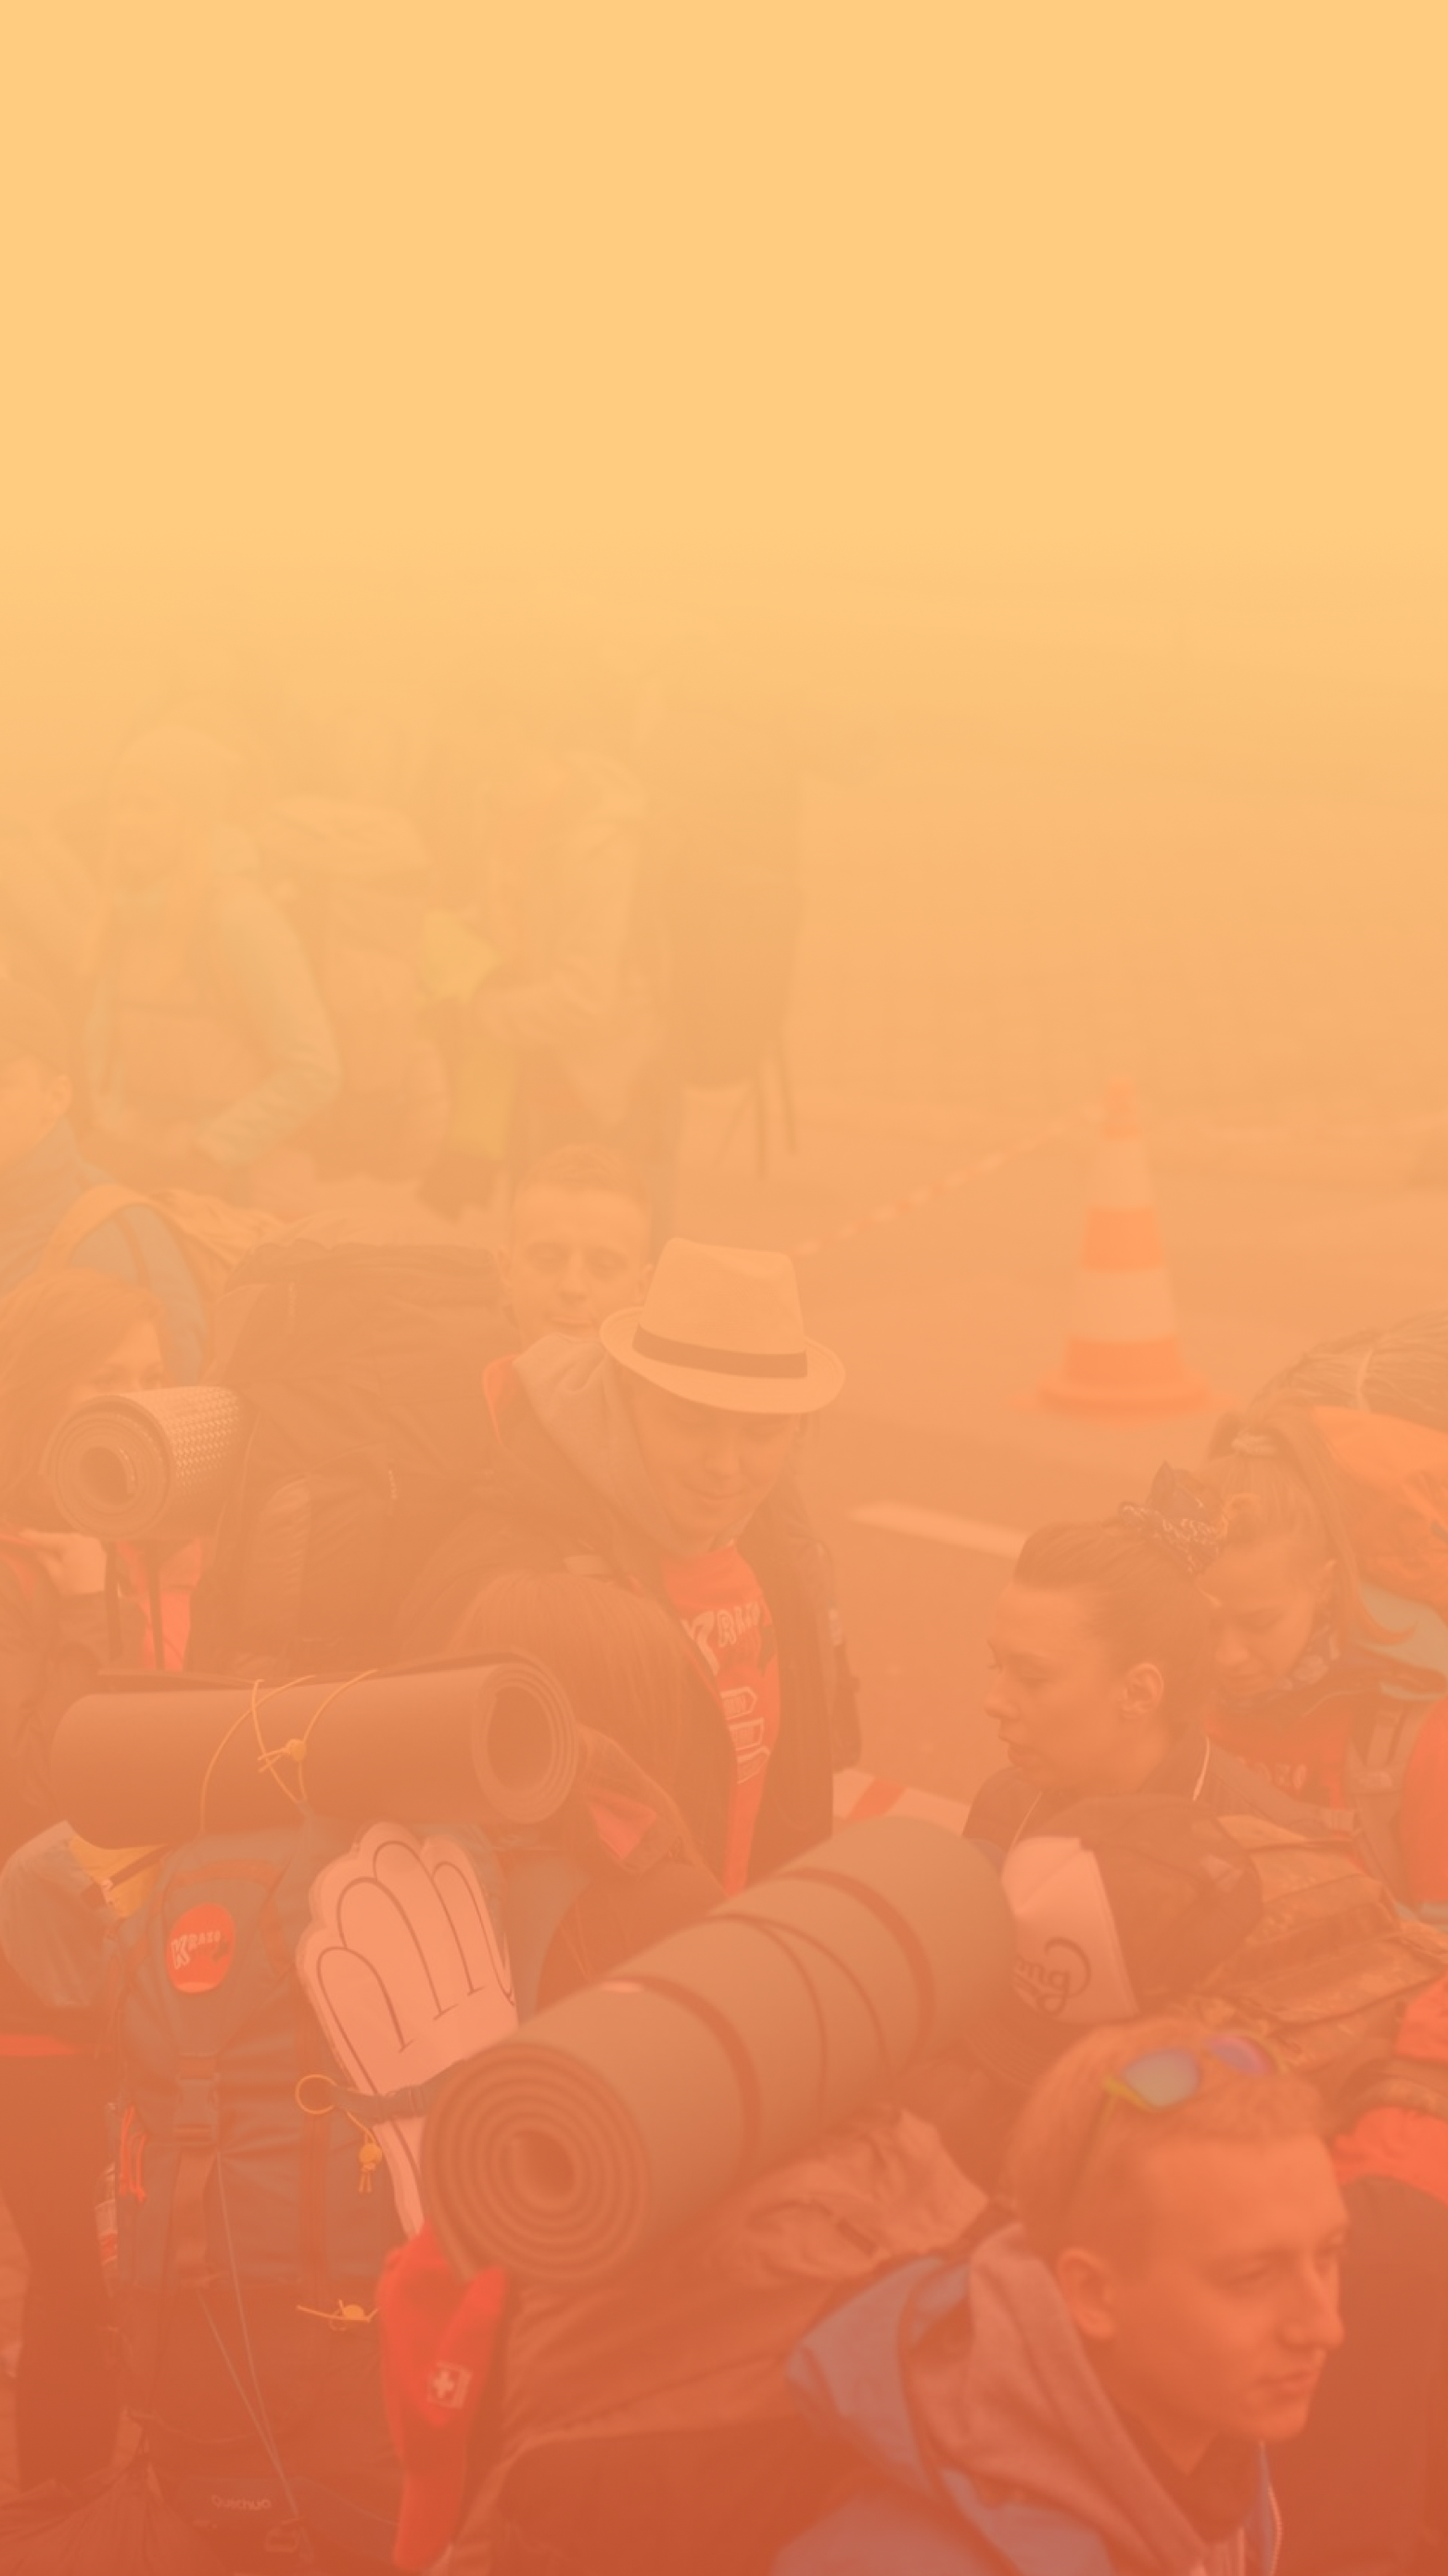
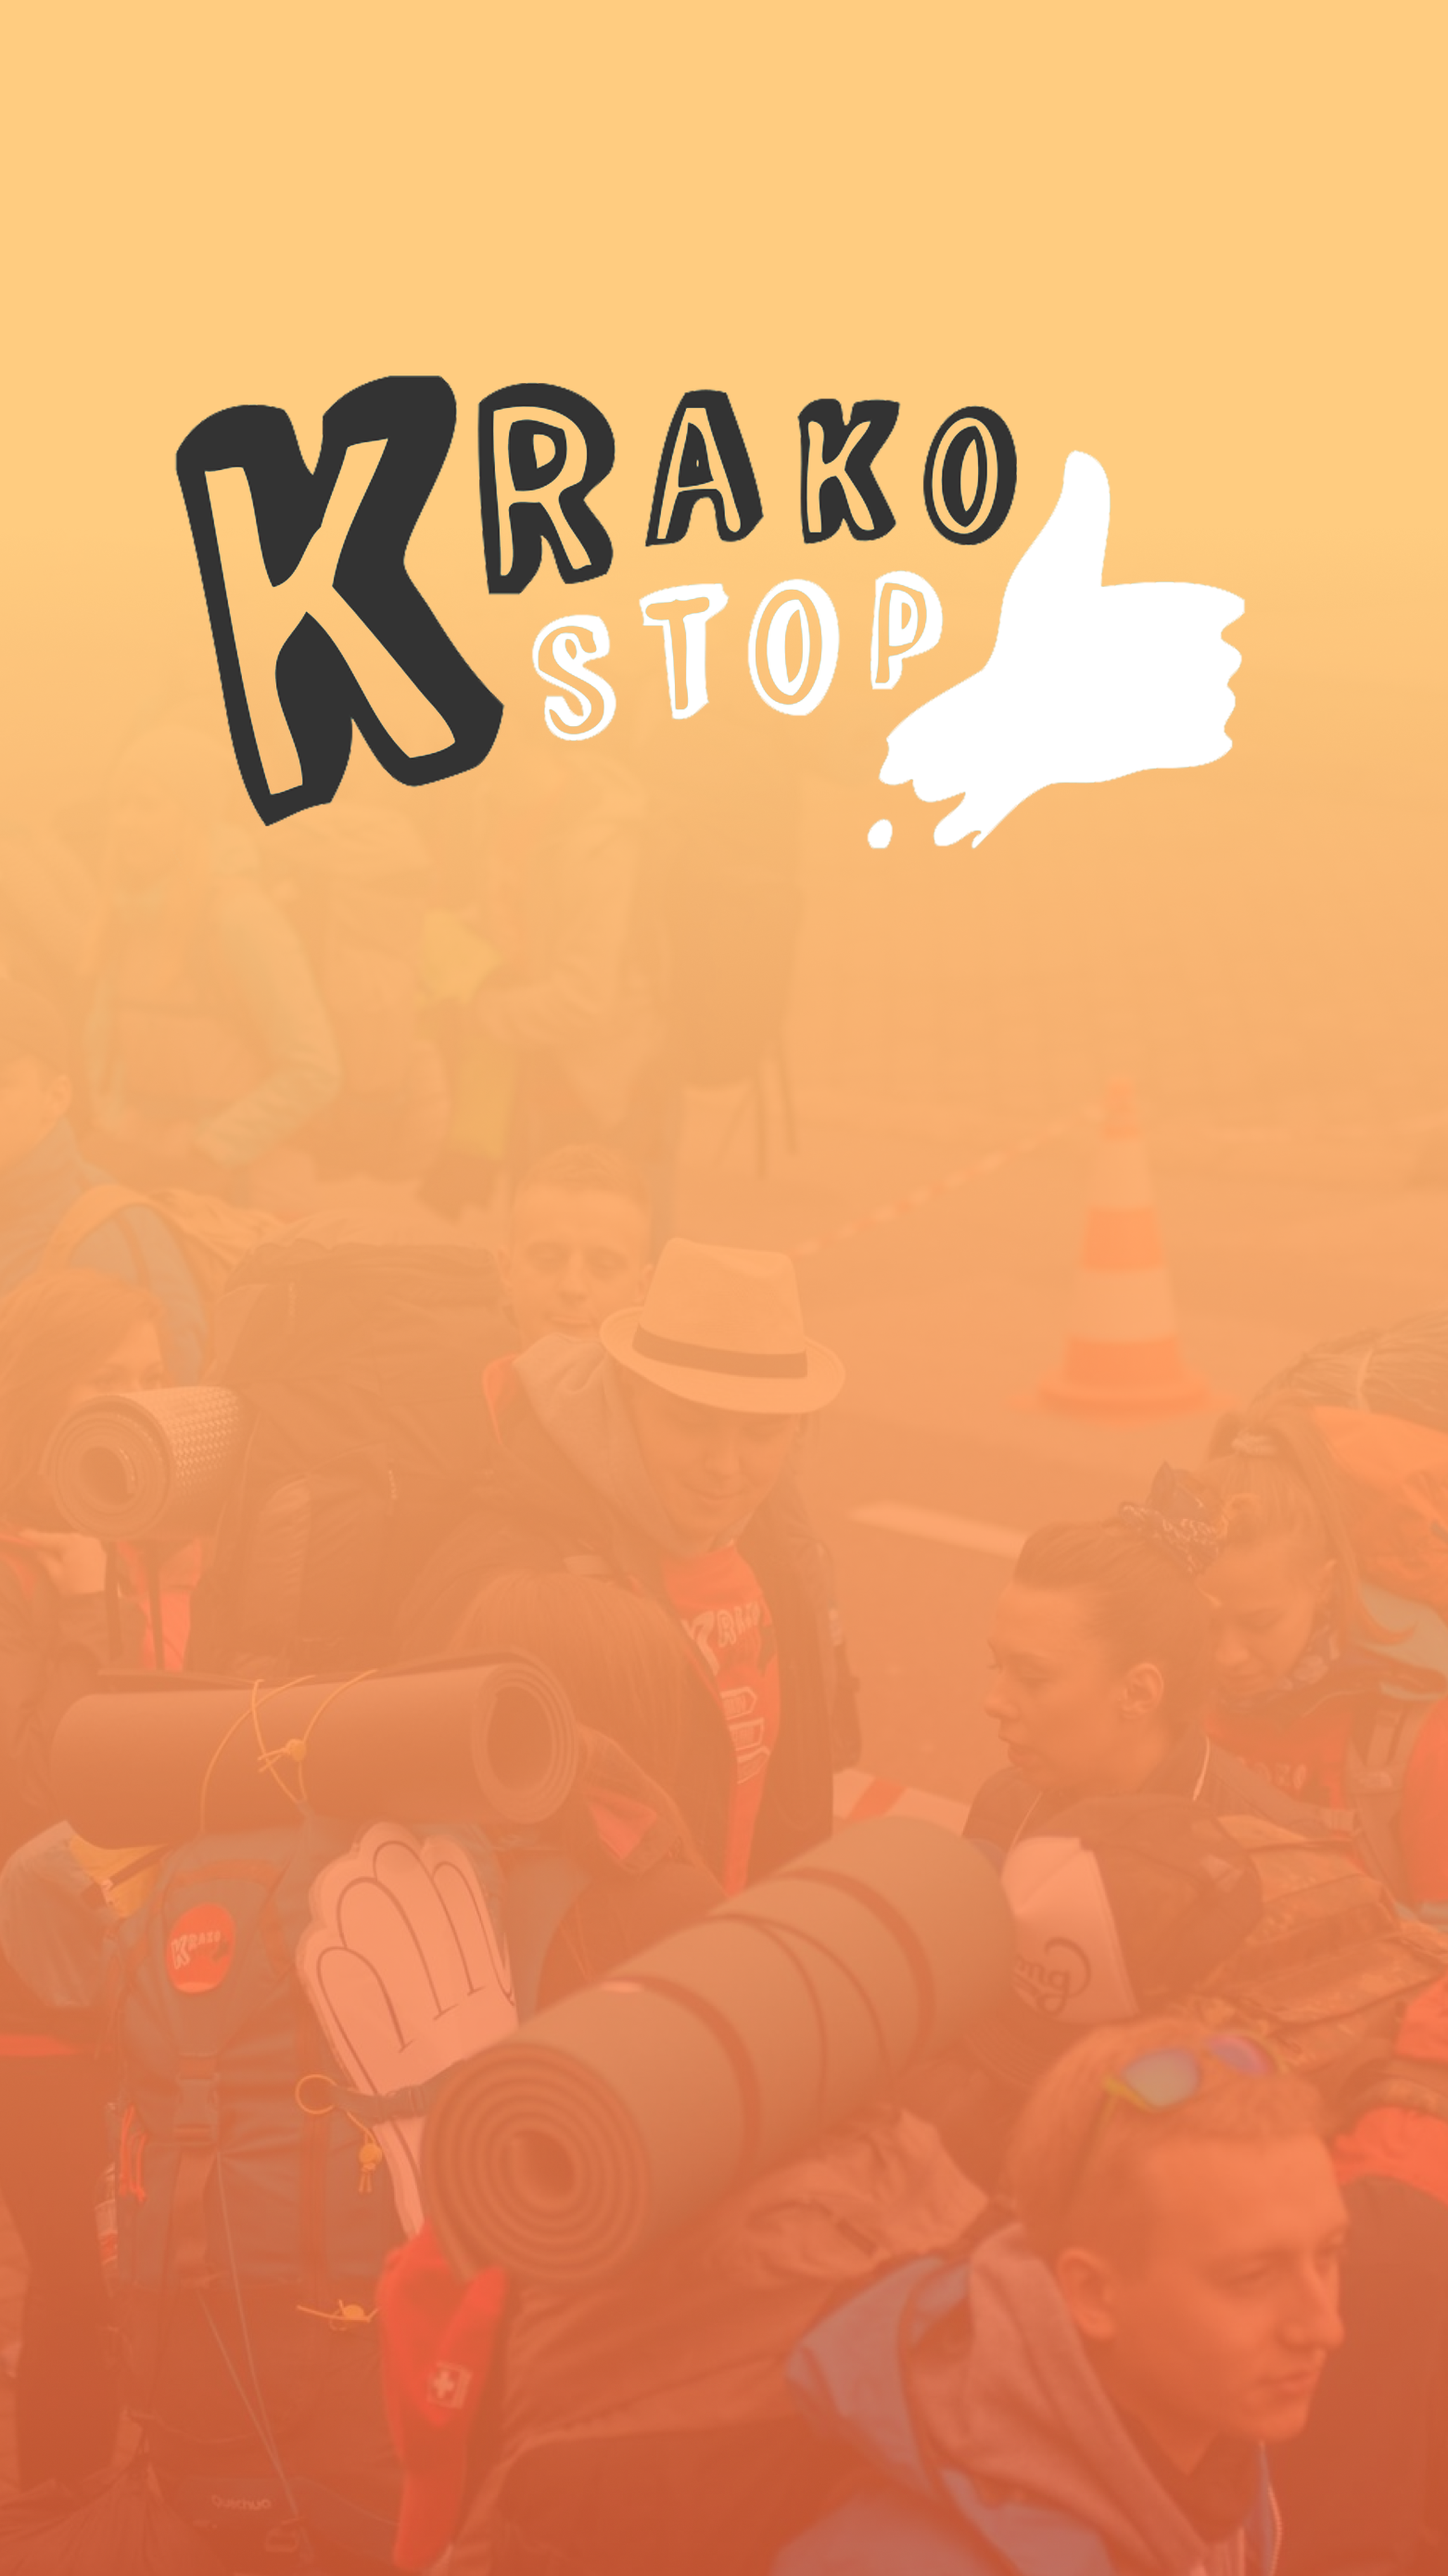
Separate auth and edit profile navigators

Changed region(s): [[0.1229, 0.1238, 0.8604, 0.3405], [0.5839, 0.3096, 0.6146, 0.3405]]

diff --git a/src/components/login/editProfile/editAvatarCard/EditAvatar.js b/src/components/login/editProfile/editAvatarCard/EditAvatar.js
@@ -1,4 +1,5 @@
 import React, { useContext, useState } from 'react';
+import { ImageBackground, StyleSheet } from 'react-native';
 import Card from '../../../card/Card';
 import CardHeader from '../../../card/CardHeader';
 import CardContent from '../../../card/CardContent';
@@ -9,6 +10,16 @@ import SmallInfoText from '../../../SmallInfoText';
 import EditAvatarNavFooter from './EditAvatarNavFooter';
 
 const HEADER_TITLE = 'Konfiguracja Profilu 1/3';
+const BACKGROUND_IMAGE = require('../../../../../assets/login_background_with_logo_dark.png');
+
+const styles = StyleSheet.create({
+  background: {
+    width: '100%',
+    height: '100%',
+    justifyContent: 'center',
+    opacity: 1,
+  },
+});
 
 function EditAvatar() {
   const { user } = useContext(LoginContext);
@@ -22,17 +33,19 @@ function EditAvatar() {
   });
 
   return (
-    <Card>
-      <CardHeader title={HEADER_TITLE} />
-      <CardContent>
-        <InfoText infoText={HELLO_TEXT} />
-        <ChangeAvatarView setError={setError} setAvatar={setAvatar} />
-        {hasErrorOccurred.isError ? (
-          <SmallInfoText text={hasErrorOccurred.message} color="red" />
-        ) : null}
-        <EditAvatarNavFooter setError={setError} avatar={avatar} />
-      </CardContent>
-    </Card>
+    <ImageBackground source={BACKGROUND_IMAGE} style={styles.background}>
+      <Card>
+        <CardHeader title={HEADER_TITLE} />
+        <CardContent>
+          <InfoText infoText={HELLO_TEXT} />
+          <ChangeAvatarView setError={setError} setAvatar={setAvatar} />
+          {hasErrorOccurred.isError ? (
+            <SmallInfoText text={hasErrorOccurred.message} color="red" />
+          ) : null}
+          <EditAvatarNavFooter setError={setError} avatar={avatar} />
+        </CardContent>
+      </Card>
+    </ImageBackground>
   );
 }
 

diff --git a/src/modules/navigation/AuthStack.js b/src/modules/navigation/AuthStack.js
@@ -1,29 +1,32 @@
 import { createStackNavigator } from 'react-navigation-stack';
+import { createSwitchNavigator } from 'react-navigation';
 import { ksStyle } from '../../styles/basic/ksBasic';
 import AuthCard from '../../components/login/auth/authCard';
-import MsgAlert from '../../components/login/editProfile/msgAlert/MsgAlert';
-import ErrorOverlay from '../../components/login/auth/loginForm/ErrorOverlay';
 import LoginScreen from '../../screens/login/LoginScreen';
-import EditAvatar from '../../components/login/editProfile/editAvatarCard';
-import ChatAgreement from '../../components/login/editProfile/chatAgreementCard';
-import PhoneAgreement from '../../components/login/editProfile/phoneAgreementCard';
+import EditProfileStack from './EditProfileStack';
+import ErrorOverlay from '../../components/login/auth/loginForm/ErrorOverlay';
 
-const AuthStack = createStackNavigator(
+const AuthStack = createSwitchNavigator(
   {
-    LoginScreen,
-    Auth: AuthCard,
-    EditProfile1: EditAvatar,
-    EditProfile2: ChatAgreement,
-    EditProfile3: PhoneAgreement,
-    MsgAlert,
-    ErrorOverlay,
+    Login: createStackNavigator(
+      { LoginScreen, Auth: AuthCard, ErrorOverlay },
+      {
+        initialRouteName: 'LoginScreen',
+        headerMode: 'none',
+        mode: 'modal',
+        transparentCard: true,
+        cardStyle: {
+          backgroundColor: ksStyle.colors.backgroundColor,
+          opacity: 1,
+        },
+      }
+    ),
+    EditProfile: {
+      screen: EditProfileStack,
+    },
   },
   {
-    initialRouteName: 'LoginScreen',
-    headerMode: 'none',
-    mode: 'modal',
-    transparentCard: true,
-    cardStyle: { backgroundColor: ksStyle.colors.backgroundColor, opacity: 1 },
+    initialRouteName: 'Login',
   }
 );
 

diff --git a/src/screens/login/LoginScreen.js b/src/screens/login/LoginScreen.js
@@ -1,9 +1,8 @@
 import React, { useState } from 'react';
-import { Image, ImageBackground, StyleSheet, View } from 'react-native';
+import { ImageBackground, StyleSheet, View } from 'react-native';
 import { Spinner } from 'native-base';
 import PropTypes from 'prop-types';
 import LoginForm from '../../components/login/auth/loginForm/LoginForm';
-import { ksStyle } from '../../styles/basic/ksBasic';
 
 const BACKGROUND_IMAGE = require('../../../assets/login_background.png');
 
@@ -18,11 +17,9 @@ const styles = StyleSheet.create({
     alignItems: 'center',
   },
   stack: {
-    width: '90%',
-    marginTop: 100,
-    flex: 0.7,
+    flex: 0.8,
     flexDirection: 'column',
-    justifyContent: 'space-between',
+    justifyContent: 'flex-end',
     alignItems: 'center',
   },
   logo: {
@@ -41,7 +38,6 @@ function LoginScreen() {
       ) : (
         <View style={styles.container}>
           <View style={styles.stack}>
-            <Image style={styles.logo} source={ksStyle.logo.source} />
             <LoginForm loginButtonPressed={loginButtonPressed} />
           </View>
         </View>

diff --git a/src/components/login/editProfile/chatAgreementCard/ChatAgreement.js b/src/components/login/editProfile/chatAgreementCard/ChatAgreement.js
@@ -17,6 +17,7 @@ function ChatAgreement() {
     isError: false,
     message: '',
   });
+
   return (
     <Card>
       <CardHeader title={HEADER_TITLE} />
